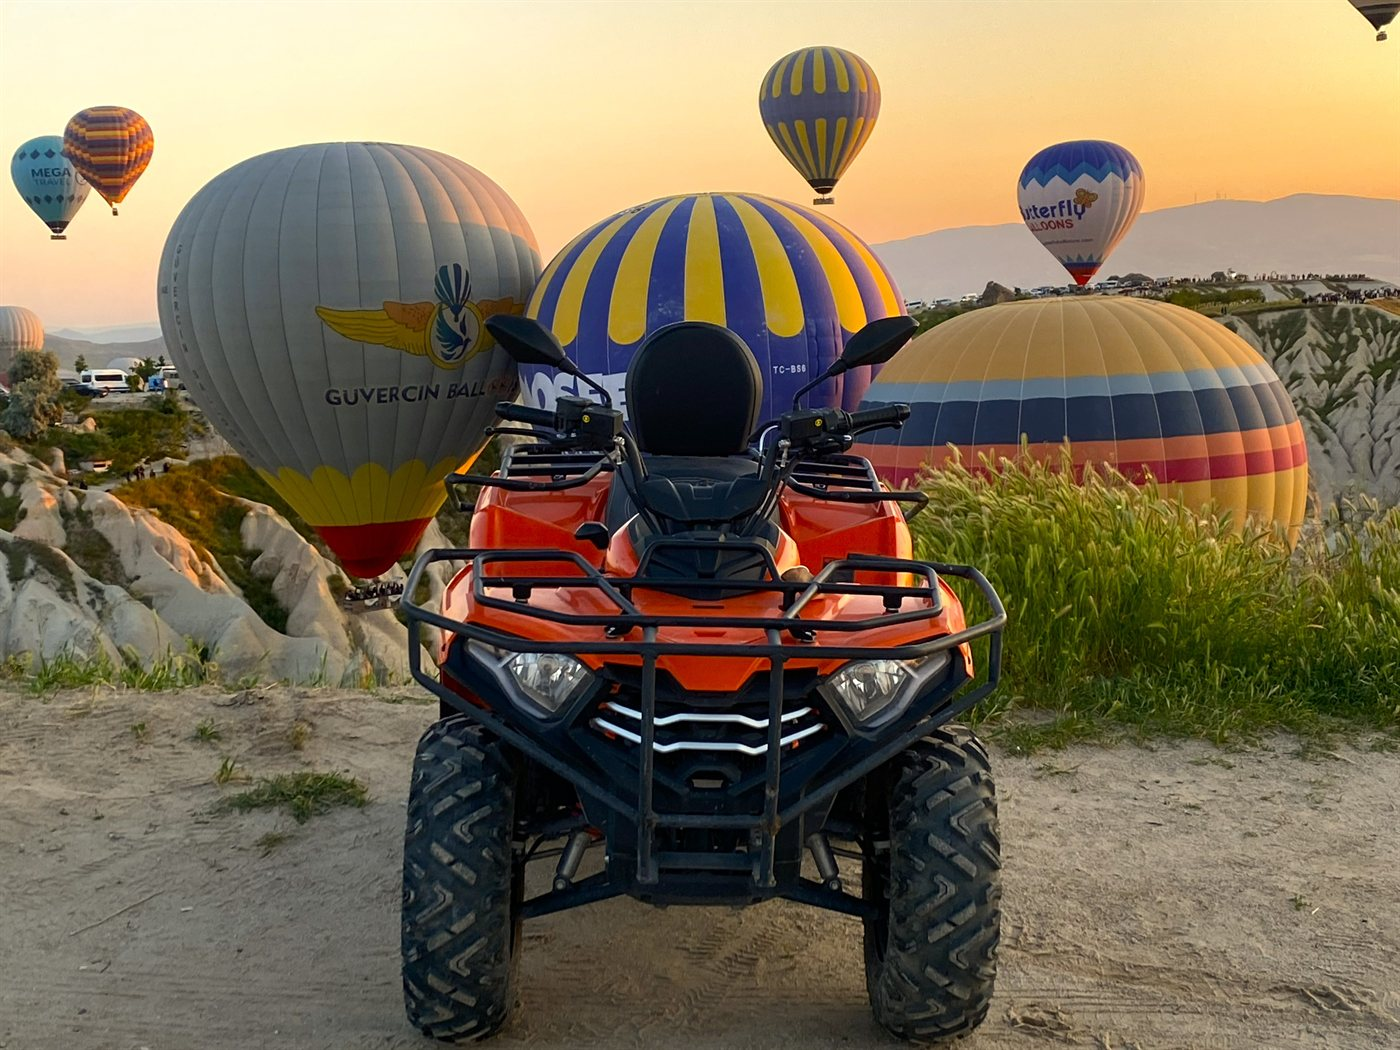
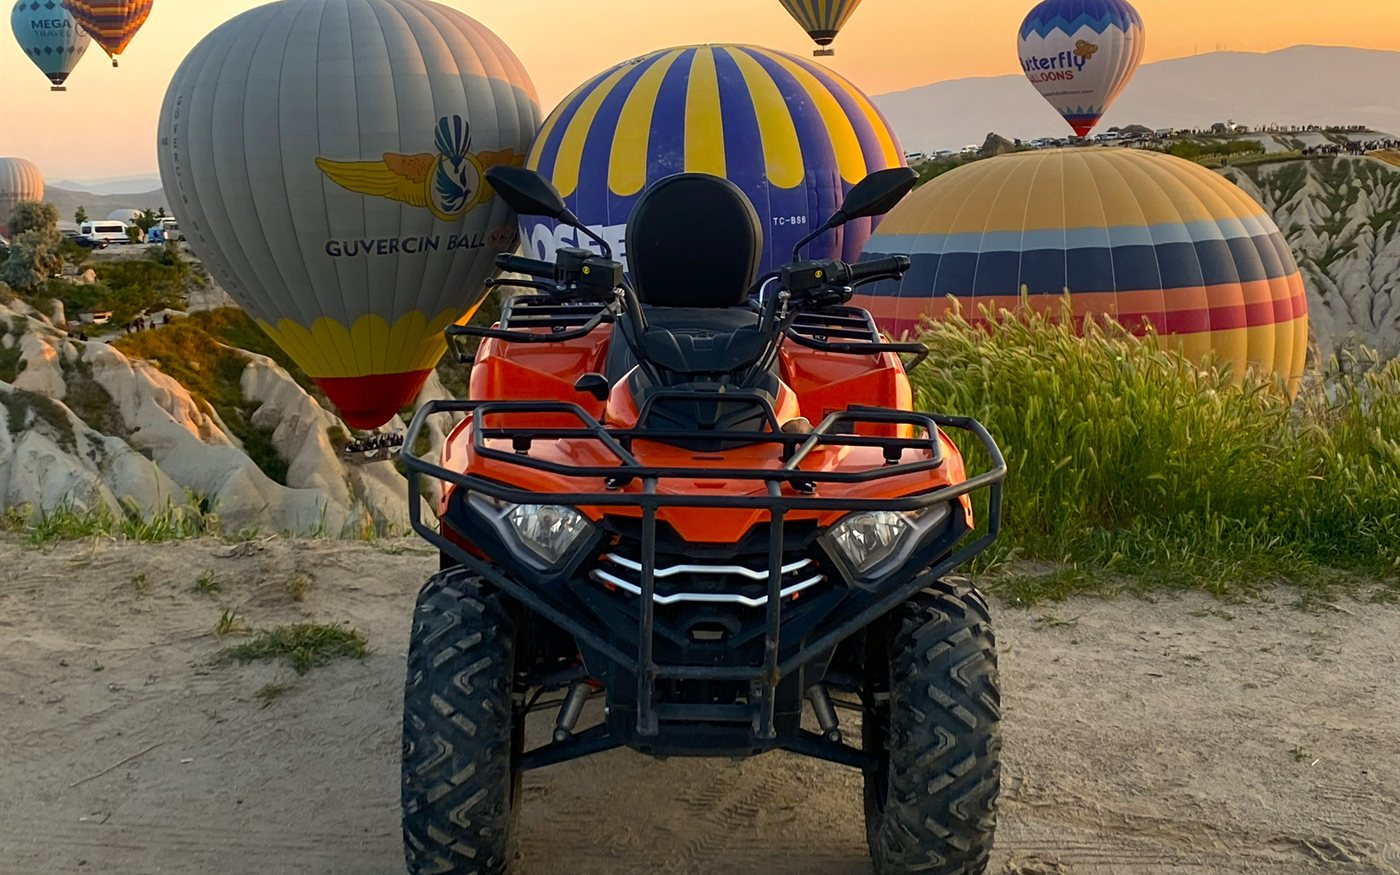
ATV fotograflarinin kirpimini duzelt, harita konumunu ve fiyat etiketlerini guncelle
- ATV fotograflarinda tekerlek/on tampon kesilmesini onlemek icin kirpma
  noktasi asagi kaydirildi (hero-2, tour-atv-sunrise/sunset/viewpoint,
  gallery-3)
- Iletisim bolumundeki harita genel Goreme aramasi yerine gercek GPS
  konumuna sabitlendi
- Tur kartlarindaki fiyatlarin yanindaki "/ kisi" etiketleri kaldirildi

diff --git a/index.html b/index.html
@@ -150,7 +150,6 @@
             <div class="flex items-baseline gap-2 mb-3">
               <span class="font-tabular text-sm text-muted line-through">2.500 ₺</span>
               <span class="font-display font-bold text-xl text-coral">2.000 ₺</span>
-              <span class="text-[11px] text-muted">/ kişi</span>
             </div>
             <a data-wa-text="Merhaba! ATV Gün Doğumu Turu hakkında bilgi almak istiyorum." href="#" class="wa-link block text-center bg-sunset text-white font-display font-bold uppercase tracking-wide text-sm px-5 py-3.5 rounded-full shadow-glow hover:brightness-105 transition">Detay & Rezervasyon</a>
           </div>
@@ -182,7 +181,6 @@
             <div class="flex items-baseline gap-2 mb-3">
               <span class="font-tabular text-sm text-muted line-through">2.000 ₺</span>
               <span class="font-display font-bold text-xl text-coral">1.500 ₺</span>
-              <span class="text-[11px] text-muted">/ kişi</span>
             </div>
             <a data-wa-text="Merhaba! ATV Gün Batımı Turu hakkında bilgi almak istiyorum." href="#" class="wa-link block text-center bg-sunset text-white font-display font-bold uppercase tracking-wide text-sm px-5 py-3.5 rounded-full shadow-glow hover:brightness-105 transition">Detay & Rezervasyon</a>
           </div>
@@ -214,7 +212,6 @@
             <div class="flex items-baseline gap-2 mb-3">
               <span class="font-tabular text-sm text-muted line-through">1.500 ₺</span>
               <span class="font-display font-bold text-xl text-coral">1.000 ₺</span>
-              <span class="text-[11px] text-muted">/ kişi</span>
             </div>
             <a data-wa-text="Merhaba! ATV Gün İçi Turu hakkında bilgi almak istiyorum." href="#" class="wa-link block text-center bg-sunset text-white font-display font-bold uppercase tracking-wide text-sm px-5 py-3.5 rounded-full shadow-glow hover:brightness-105 transition">Detay & Rezervasyon</a>
           </div>
@@ -246,7 +243,6 @@
             <div class="flex items-baseline gap-2 mb-3">
               <span class="font-tabular text-sm text-muted line-through">2.000 ₺</span>
               <span class="font-display font-bold text-xl text-coral">1.500 ₺</span>
-              <span class="text-[11px] text-muted">/ kişi</span>
             </div>
             <a data-wa-text="Merhaba! ATV Gün İçi Turu hakkında bilgi almak istiyorum." href="#" class="wa-link block text-center bg-sunset text-white font-display font-bold uppercase tracking-wide text-sm px-5 py-3.5 rounded-full shadow-glow hover:brightness-105 transition">Detay & Rezervasyon</a>
           </div>
@@ -278,7 +274,6 @@
             <div class="flex items-baseline gap-2 mb-3">
               <span class="font-tabular text-sm text-muted line-through">3.500 ₺</span>
               <span class="font-display font-bold text-xl text-coral">3.000 ₺</span>
-              <span class="text-[11px] text-muted">/ kişi</span>
             </div>
             <a data-wa-text="Merhaba! Klasik Otomobil ile Gün Doğumu Turu hakkında bilgi almak istiyorum." href="#" class="wa-link block text-center bg-sunset text-white font-display font-bold uppercase tracking-wide text-sm px-5 py-3.5 rounded-full shadow-glow hover:brightness-105 transition">Detay & Rezervasyon</a>
           </div>
@@ -310,7 +305,6 @@
             <div class="flex items-baseline gap-2 mb-3">
               <span class="font-tabular text-sm text-muted line-through">3.000 ₺</span>
               <span class="font-display font-bold text-xl text-coral">2.500 ₺</span>
-              <span class="text-[11px] text-muted">/ kişi</span>
             </div>
             <a data-wa-text="Merhaba! Klasik Otomobil ile Gün Batımı Turu hakkında bilgi almak istiyorum." href="#" class="wa-link block text-center bg-sunset text-white font-display font-bold uppercase tracking-wide text-sm px-5 py-3.5 rounded-full shadow-glow hover:brightness-105 transition">Detay & Rezervasyon</a>
           </div>
@@ -341,7 +335,6 @@
           <div class="mt-auto">
             <div class="flex items-baseline gap-2 mb-3">
               <span class="font-display font-bold text-xl text-coral">1.500 ₺</span>
-              <span class="text-[11px] text-muted">/ kişi</span>
             </div>
             <a data-wa-text="Merhaba! Klasik Otomobil ile Gün İçi Turu hakkında bilgi almak istiyorum." href="#" class="wa-link block text-center bg-sunset text-white font-display font-bold uppercase tracking-wide text-sm px-5 py-3.5 rounded-full shadow-glow hover:brightness-105 transition">Detay & Rezervasyon</a>
           </div>
@@ -381,7 +374,6 @@
           <div class="mt-auto">
             <div class="flex items-baseline gap-2 mb-3">
               <span class="font-display font-bold text-xl text-coral">2.500 ₺</span>
-              <span class="text-[11px] text-muted">/ kişi</span>
             </div>
             <a data-wa-text="Merhaba! ATV + Klasik Kombine Tur hakkında bilgi almak istiyorum." href="#" class="wa-link block text-center bg-sunset text-white font-display font-bold uppercase tracking-wide text-sm px-5 py-3.5 rounded-full shadow-glow hover:brightness-105 transition">Detay & Rezervasyon</a>
           </div>
@@ -558,8 +550,8 @@
     <div class="reveal">
       <div class="rounded-3xl overflow-hidden border border-hair shadow-soft h-full min-h-[380px]">
         <iframe
-          title="Göreme, Kapadokya konum haritası"
-          src="https://www.google.com/maps?q=G%C3%B6reme%2C%20Nev%C5%9Fehir%2C%20Kapadokya&output=embed"
+          title="Golden Grape Travel konum haritası"
+          src="https://www.google.com/maps?q=38.653528,34.837333&z=17&output=embed"
           class="w-full h-full min-h-[380px]"
           style="border:0;"
           loading="lazy"
